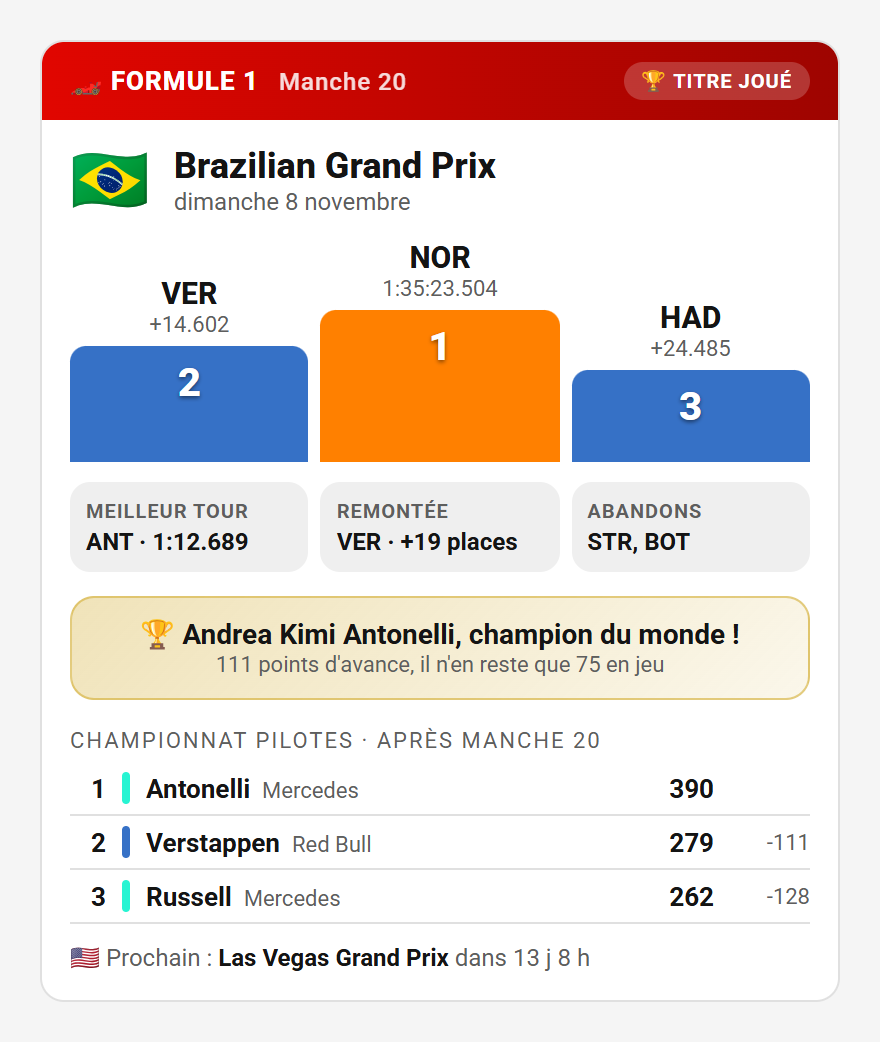
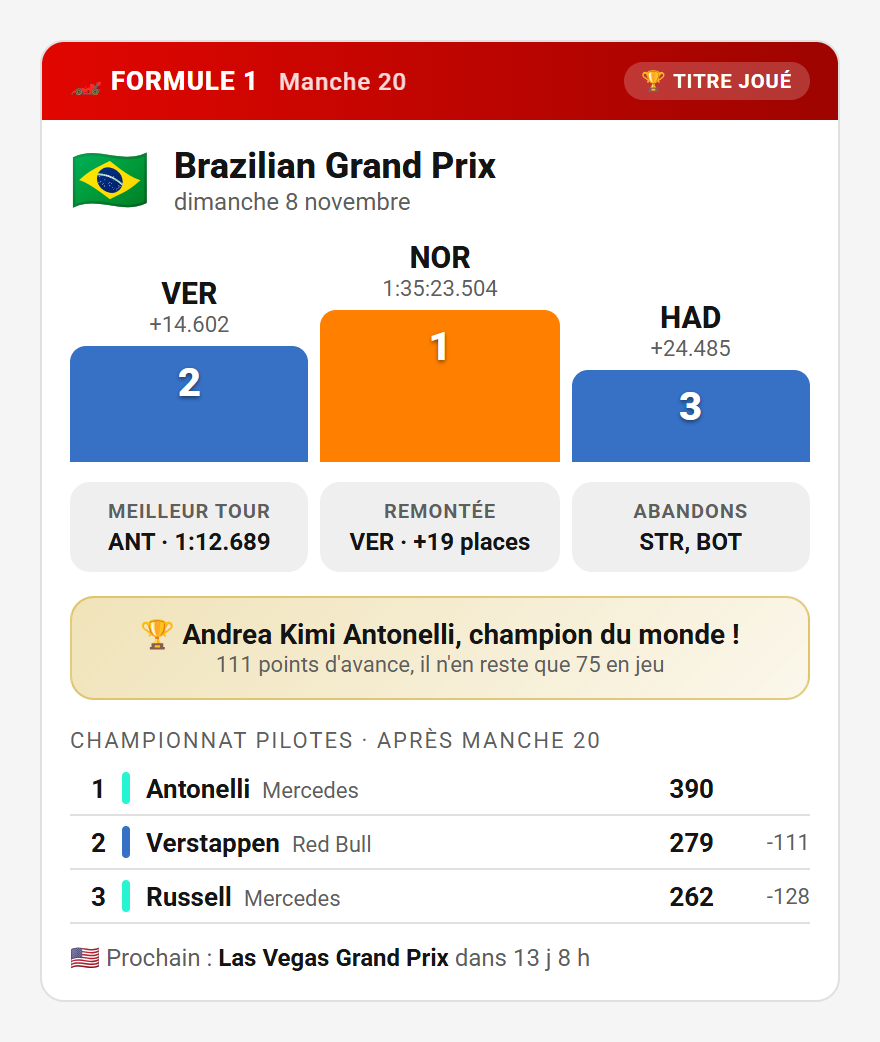
fix: center the fastest lap, biggest climb and retirements boxes
The three race highlight boxes sit right under the podium steps, which
are centered, and above the centered champion banner. Their left-aligned
text broke that axis. They are now centered like the steps above them.

Also pass `source: sensors` in the screenshot script: since the API
became the default source, it rendered a loading message instead of the
fixtures.

Changed region(s): [[0.092, 0.4607, 0.3068, 0.5528], [0.675, 0.4607, 0.8591, 0.5528], [0.3682, 0.4607, 0.583, 0.5528]]

diff --git a/src/styles.ts b/src/styles.ts
@@ -266,9 +266,11 @@ export const cardStyles = css`
     margin-top: 10px;
   }
 
+  /* Centered, like the podium steps right above them. */
   .fact {
     flex: 1;
     padding: 8px;
+    text-align: center;
     border-radius: 10px;
     background: rgba(127, 127, 127, 0.12);
     font-size: 12px;
